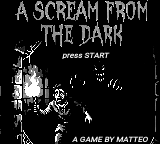
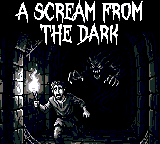
Title music: brano complesso e ricco di pathos (112 note, 3 canali)
Riscritta completamente la title music. Ora e' un brano di 112 note
(~56 sec, in loop) su 3 canali invece del precedente semplice 32-note
su 2 canali:

- CH1 melodia: 112 note con envelope sostenuto (NR12=0x87, fade up
  lungo) per un suono haunting/cantabile. Progressione armonica ricca:
  Dm - Bb - F - C - Dm - A7(con C#, tensione) - Dm(climb al C5) -
  Gm - A7 - discesa cromatica finale nell'abisso.
- CH2 basso: linea indipendente (title_bass[112]) che segue gli accordi
  con movimento, non piu' semplice ottava sotto. Envelope deep plucked.
- CH4 noise: rintocchi sparsi (toll) ad ogni cambio d'accordo (ogni 8
  step) per atmosfera desolata stile Metroid II / Castlevania.

Struttura: intro sparso (Dm) - lamento (Bb-F-C-Dm) - tensione/climax
(A7 con leading tone, climb al C5) - crollo cromatico e discesa
nell'abisso (D3...A2).

Ispirazione: Castlevania (arpeggi gotici), Metroid II (desolazione
sparsa), Link's Awakening (melancolia onirica).

diff --git a/src/sound.c b/src/sound.c
@@ -184,15 +184,38 @@ const uint16_t eerie_reg_vals[] = {
     1369, 1497, 1589, 1709, 1733, 1709, 1589, 1497
 };
 
-// Title theme: lamento tragico discendente. 4 frasi da 8 note che scendono da
-// La4 fino a La2, con respiri (R) e salti drammatici. Armonizza con la
-// progressione Dm - C - Bb - A (come il finale), impostando il tono sinistro
-// di "A Scream from the Dark" fin dal menu.
-const uint16_t title_melody[32] = {
-    N_A3, R, N_F3, R, N_D3, N_E3, R, N_A2,  // 1. Dm: A3..A2, respiro
-    N_F3, R, N_D3, R, N_C3, N_B3, R, N_A2,  // 2. C:  F3..A2, caduta
-    N_E3, N_D3, R, N_A2, N_B2, R, N_A2, R,  // 3. Bb (AS2): E3..A2, sospeso
-    N_D3, R, N_C3, N_B2, R, N_A2, N_E2, R   // 4. A:  D3..E2, abisso
+const uint16_t title_melody[112] = {
+    N_D3, R, N_F3, R, N_A3, R, N_F3, R,
+    N_A3, N_F3, N_D3, R, N_C3, R, N_D3, R,
+    N_AS3, R, N_D4, N_F4, R, N_D4, N_AS3, R,
+    N_F3, R, N_A3, N_C4, R, N_A3, N_F3, R,
+    N_C3, R, N_E3, N_G3, R, N_E3, N_C3, R,
+    N_D3, R, N_F3, N_A3, R, N_A3, N_F3, R,
+    N_A3, R, N_CS4, N_E4, R, N_E4, N_CS4, R,
+    N_D4, N_F4, N_A4, R, N_C5, N_A4, N_F4, R,
+    N_G3, R, N_AS3, N_D4, R, N_AS3, N_G3, R,
+    N_A3, R, N_E4, N_CS4, R, N_A3, N_E4, R,
+    N_D4, N_F4, N_A4, N_F4, R, N_D4, N_C4, R,
+    N_AS3, N_A3, R, N_G3, R, N_F3, R, N_E3,
+    N_D3, R, N_C3, R, N_AS2, R, N_A2, R,
+    N_D3, R, R, R, R, R, R, R
+};
+
+const uint16_t title_bass[112] = {
+    N_D3, R, R, R, N_D3, R, R, R,
+    N_A2, R, R, R, N_A2, R, R, R,
+    N_AS2, R, R, R, N_AS2, R, R, R,
+    N_F2, R, R, R, N_F2, R, R, R,
+    N_C3, R, R, R, N_C3, R, R, R,
+    N_D3, R, R, R, N_D3, R, R, R,
+    N_A2, R, R, R, N_E3, R, R, R,
+    N_D3, R, R, R, N_A2, R, R, R,
+    N_G2, R, R, R, N_D3, R, R, R,
+    N_A2, R, R, R, N_E3, R, R, R,
+    N_D3, R, R, R, N_A2, R, R, R,
+    N_AS2, R, N_A2, R, N_G2, R, N_F2, R,
+    N_D3, R, N_C3, R, N_AS2, R, N_A2, R,
+    N_D3, R, R, R, R, R, R, R
 };
 
 const uint16_t finale_ch1_seq[192] = {
@@ -367,26 +390,35 @@ void play_victory_step(uint8_t step) {
 void play_music_tick(void) {
     if (app_state == 0) { // TITLE SCREEN
         title_music_timer++;
-        if (title_music_timer >= 30) { // 30 frames per note
+        if (title_music_timer >= 30) { // 30 frames per note (somber)
             title_music_timer = 0;
-            uint16_t n = title_melody[title_music_step];
-            NR10_REG = 0; 
-            NR11_REG = 0x80;
-            NR12_REG = 0x63; // soft fade
-            NR13_REG = n & 0xFF;
-            NR14_REG = (n >> 8) | 0x80;
-            
-            // Add a slow bass note every 4 steps
-            if (title_music_step % 4 == 0) {
-                NR21_REG = 0x80;
-                NR22_REG = 0x77;
-                uint16_t bn = n / 2; // Octave lower (divide frequency logic)
-                NR23_REG = bn & 0xFF;
-                NR24_REG = (bn >> 8) | 0x80;
+            uint8_t step = title_music_step;
+            // CH1: melody (sustained, haunting envelope)
+            uint16_t n = title_melody[step];
+            if (n != R) {
+                NR10_REG = 0;
+                NR11_REG = 0x80;
+                NR12_REG = 0x87; // vol 8, fade up, period 7 (sustained)
+                NR13_REG = n & 0xFF;
+                NR14_REG = (n >> 8) | 0x80;
             }
-
+            // CH2: independent bass line (deep plucked)
+            uint16_t b = title_bass[step];
+            if (b != R) {
+                NR21_REG = 0x80;
+                NR22_REG = 0xA3; // vol 10, fade down, period 3 (deep plucked)
+                NR23_REG = b & 0xFF;
+                NR24_REG = (b >> 8) | 0x80;
+            }
+            // CH4: sparse toll at chord changes (every 8 steps) for atmosphere
+            if (step % 8 == 0) {
+                NR41_REG = 0x01;
+                NR42_REG = 0x82; // soft, slow fade
+                NR43_REG = 0x70; // deep low toll
+                NR44_REG = 0x80;
+            }
             title_music_step++;
-            if (title_music_step >= 32) title_music_step = 0;
+            if (title_music_step >= 112) title_music_step = 0;
         }
         return;
     }